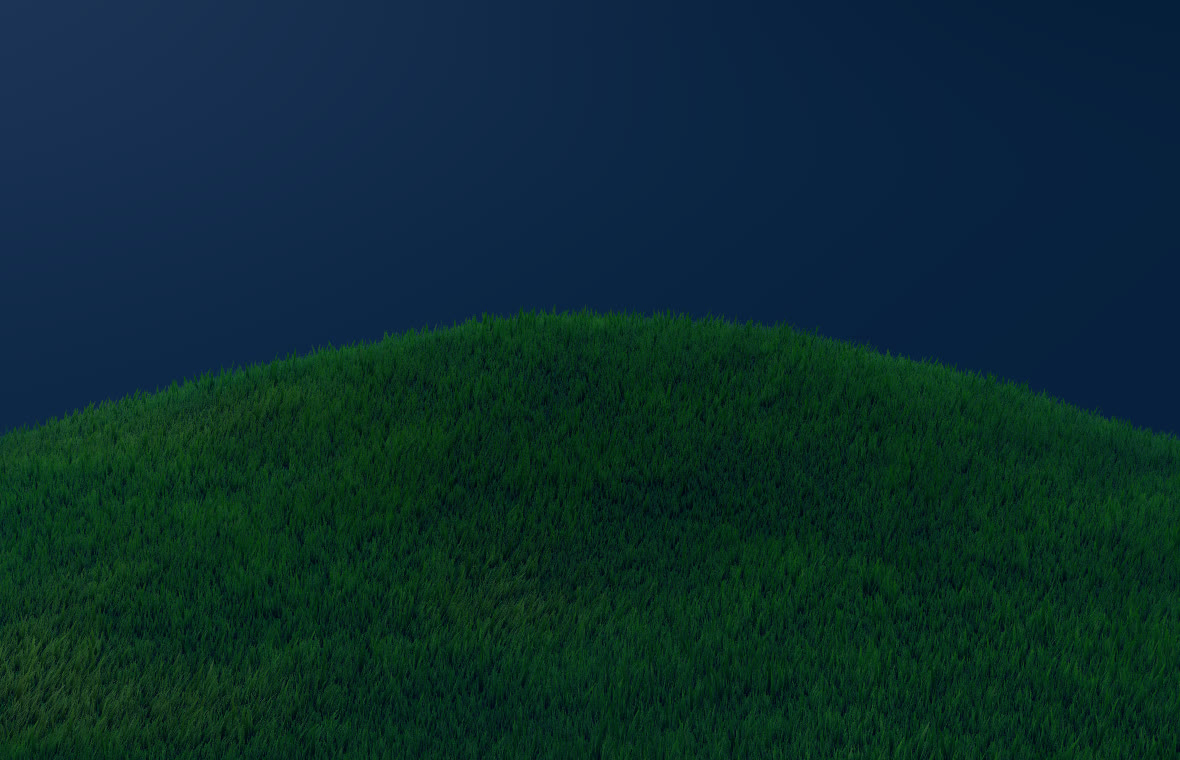
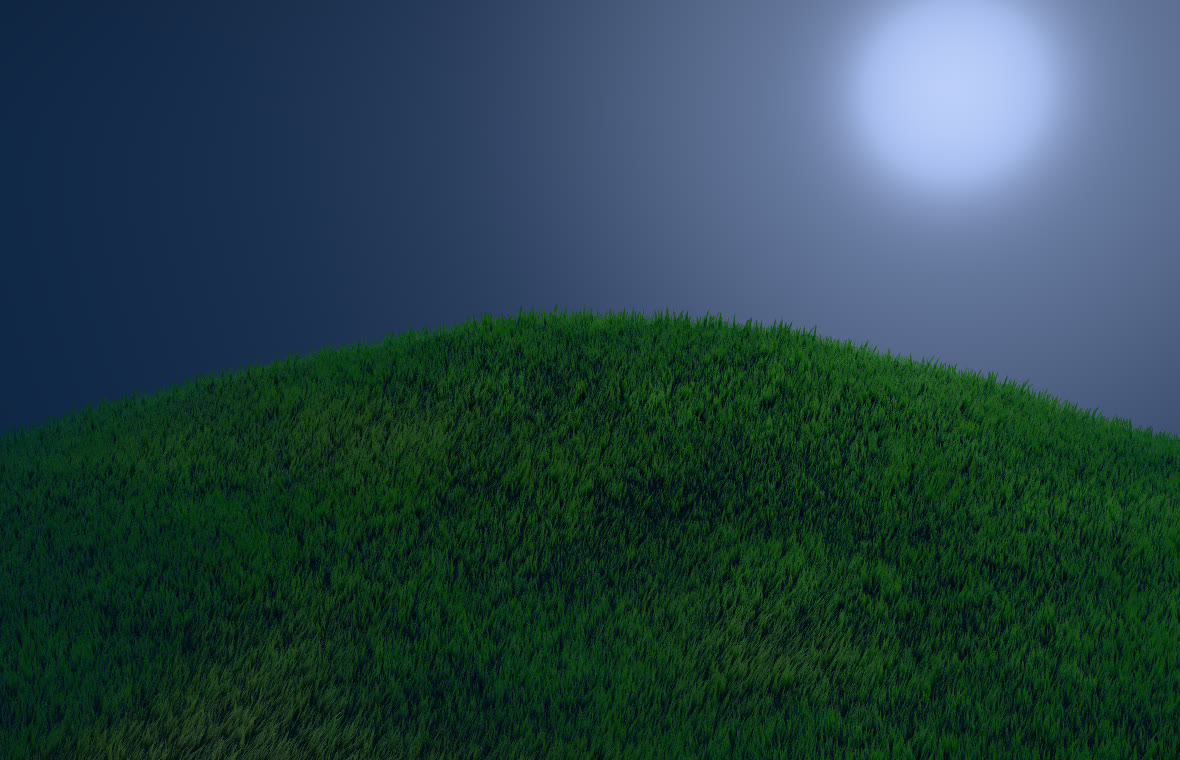
Moonlit preset: a low moon in the frame and light through the tips

diff --git a/src/settings.js b/src/settings.js
@@ -65,8 +65,8 @@ export const PRESETS = {
         sunColor: "#ffdca8", skyColor: "#b9c7d8", fogColor: "#f0dcae", zenithColor: "#93b0cf", wind: 0.55, haze: 0.8, length: 1.2,
     },
     moonlit: {
-        sunElevation: 38, sunAzimuth: 215, sunColor: "#a9c4ff", sunPower: 0.9, skyColor: "#34466b", bounceColor: "#10160f",
-        ambient: 0.9, backLight: 0.5, fogColor: "#1a2436", zenithColor: "#070c18", haze: 0.9, exposure: 1.7, wind: 0.8,
+        sunElevation: 5.5, sunAzimuth: 170, sunColor: "#b9ceff", sunPower: 0.55, skyColor: "#34466b", bounceColor: "#10160f",
+        ambient: 1.15, backLight: 1.6, fogColor: "#1a2436", zenithColor: "#070c18", haze: 0.9, exposure: 1.6, wind: 0.8,
     },
 };
 
